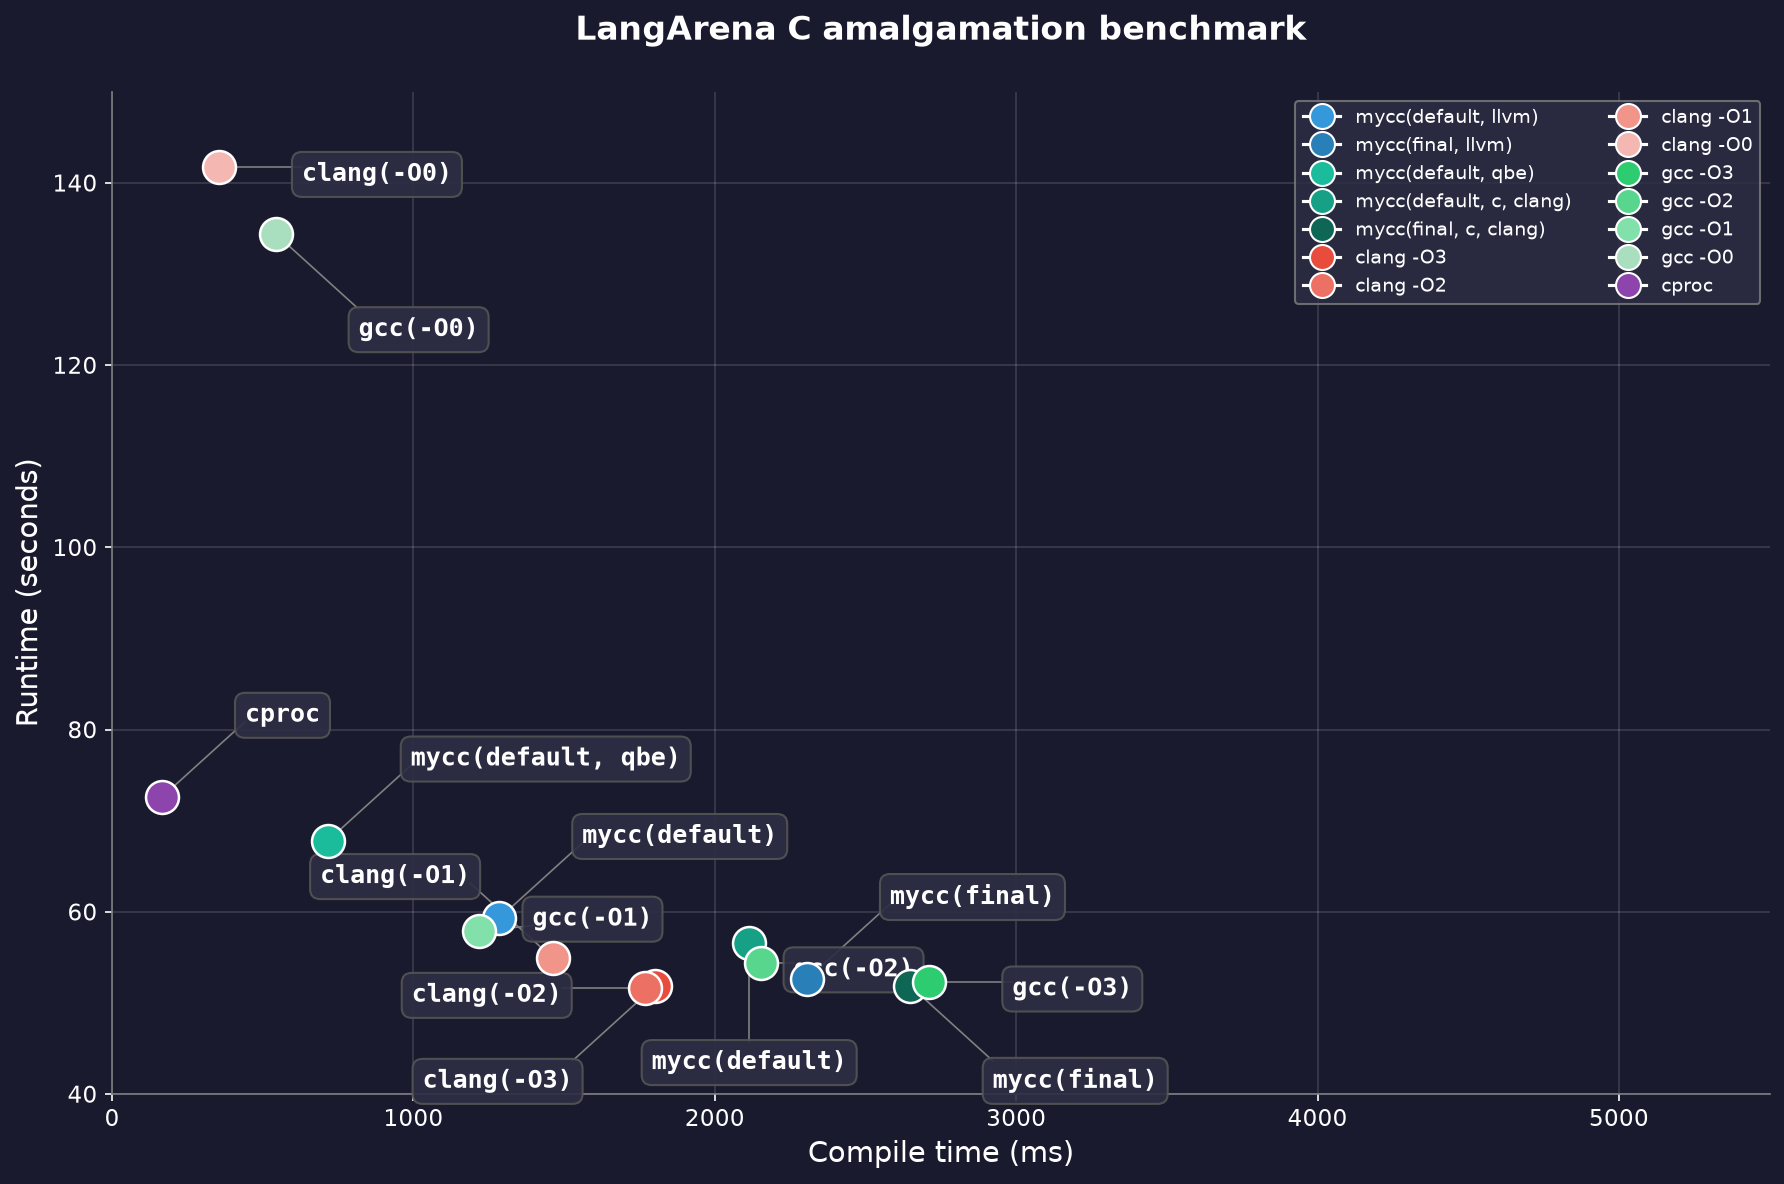
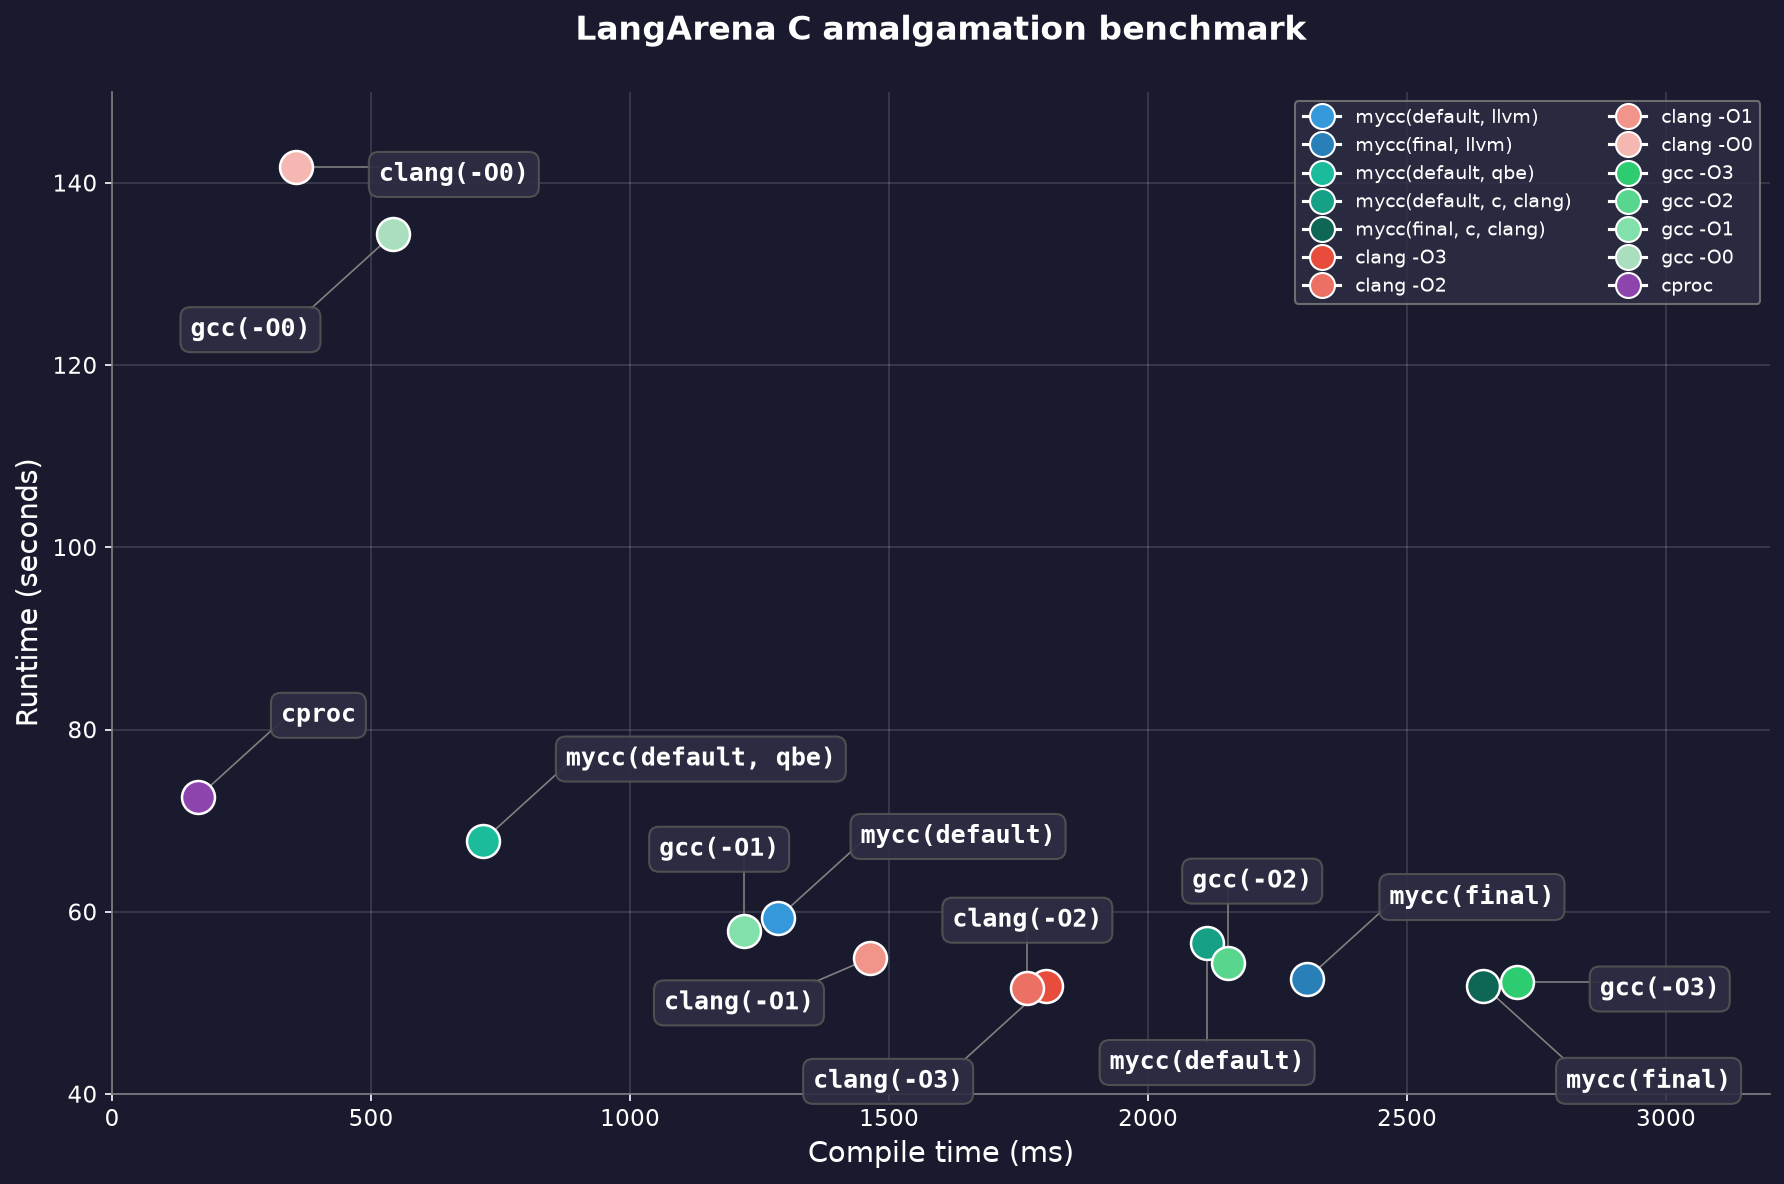
fix

diff --git a/plot3.py b/plot3.py
@@ -51,7 +51,7 @@ labels = [name.replace(', llvm', '').replace(', clang', '').replace(', c', '') f
 for i, (x, y) in enumerate(zip(x_coords, y_coords)):
     ax.scatter(x, y, c=colors[i], s=250, edgecolors='white', linewidth=1.2, zorder=5)
 
-ax.set_xlim(0, 5500)
+ax.set_xlim(0, 3200)
 ax.set_ylim(40, 150)
 
 ta.allocate(
